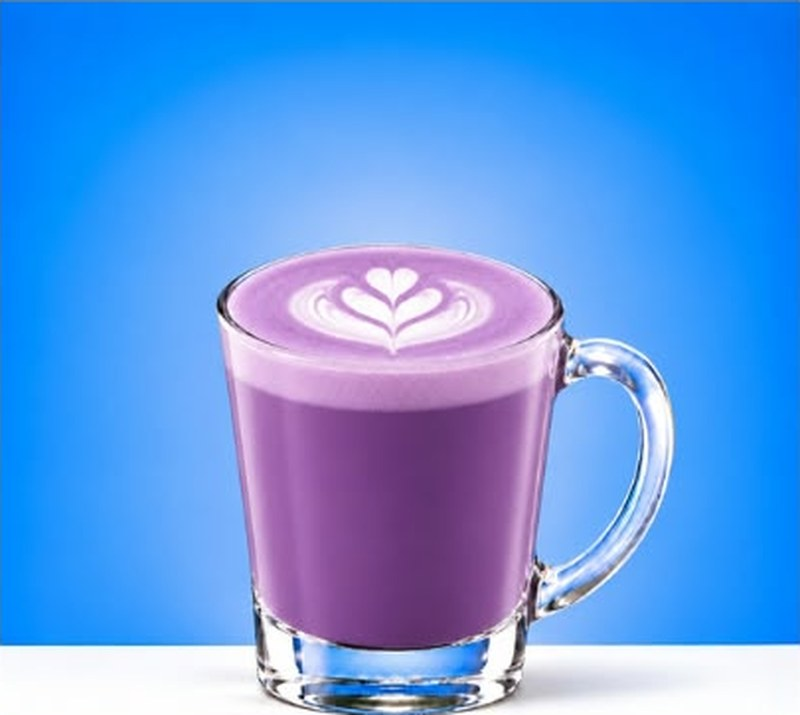
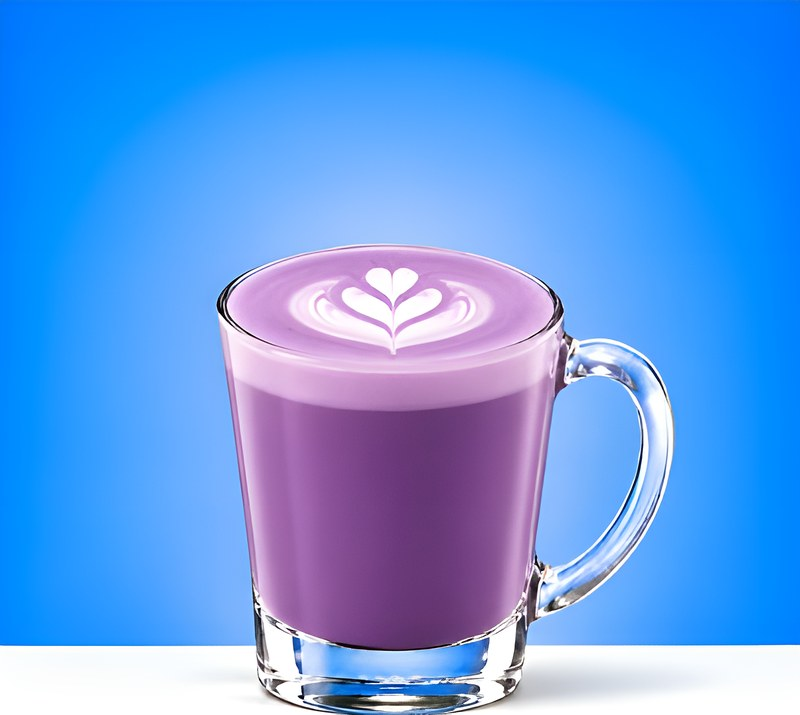
Menu: sharpened latte photos (Real-ESRGAN x4), fix mobile overflow
Claude-Session: https://claude.ai/code/session_01ETbES2wQHNdeBf9qGsJf3J

diff --git a/src/pages/Menu.jsx b/src/pages/Menu.jsx
@@ -76,9 +76,9 @@ export default function Menu() {
     <>
       <PageHero eyebrow="Bretlyn Coffee" title="Our Menu" text="Specialty coffee and signature drinks, crafted for every day." />
       <Box component="section" sx={{ background: '#fff' }}>
-        <Box sx={{ display: 'grid', gridTemplateColumns: { xs: '1fr', md: '274px 1fr' }, minHeight: { md: '80vh' } }}>
+        <Box sx={{ display: 'grid', gridTemplateColumns: { xs: 'minmax(0, 1fr)', md: '274px minmax(0, 1fr)' }, minHeight: { md: '80vh' } }}>
           {/* Sidebar (desktop) / scrolling chips (mobile) */}
-          <Box component="nav" aria-label="Menu categories" sx={{ background: SIDEBAR_BG,
+          <Box component="nav" aria-label="Menu categories" sx={{ background: SIDEBAR_BG, minWidth: 0,
             position: { xs: 'sticky', md: 'static' }, top: { xs: 56, md: 'auto' }, zIndex: 5 }}>
             <Box sx={{ position: { md: 'sticky' }, top: { md: 80 }, px: { xs: 0, md: 2 }, py: { xs: 1.2, md: 4 } }}>
               <Typography sx={{ display: { xs: 'none', md: 'block' }, fontWeight: 800, fontSize: '2.1rem', color: brand.navy,
